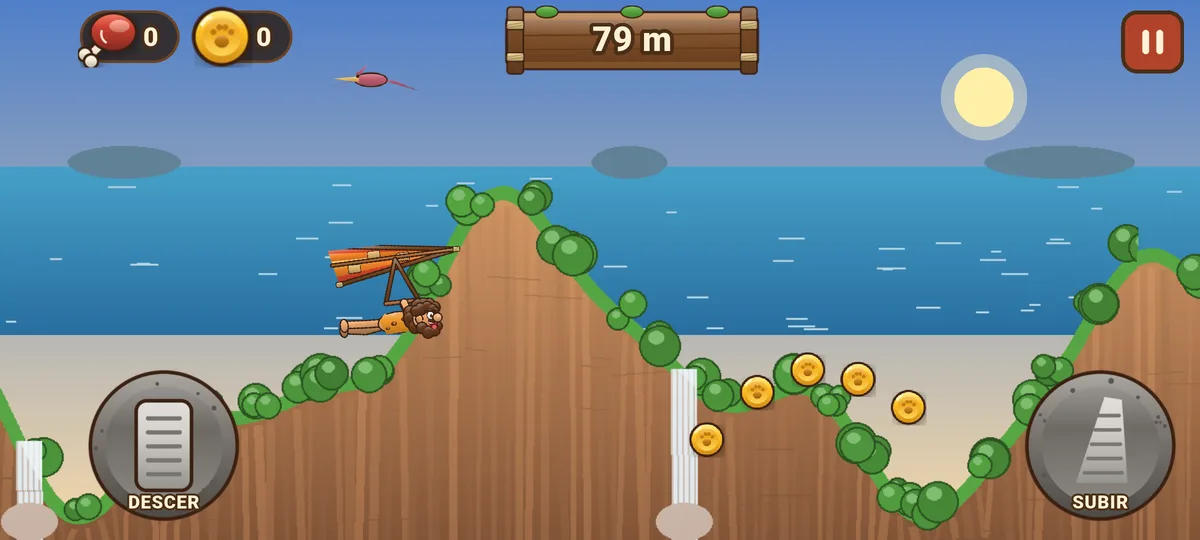
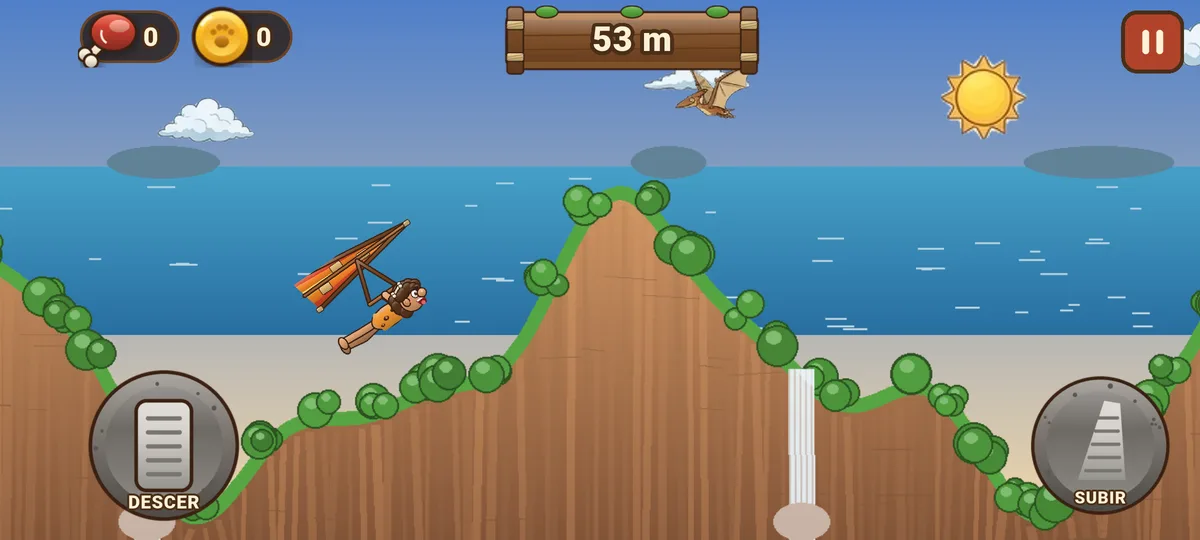
Caverna Race: prints novos com a arte do Gemini

diff --git a/caverna-race/index.html b/caverna-race/index.html
@@ -165,7 +165,7 @@
       </div>
       <div class="feature">
         <p class="label">Carrinhos e personagens</p>
-        <p>Quatro carrinhos — do Tronco-Móvel ao Safira Turbo — e três homens das cavernas para escolher.</p>
+        <p>Seis carrinhos — Tronco-Móvel, Caçamba, Ossos, Esteira, Pedra e Voo-Móvel com asas de pterodáctilo — e três pilotos: Ugo, Kina e Hugo.</p>
       </div>
       <div class="feature">
         <p class="label">Cinco fases</p>
@@ -186,15 +186,15 @@
     <h2>Veja o jogo</h2>
     <div class="prints">
       <figure>
-        <img src="assets/print_menu.webp" width="1200" height="540" loading="lazy" alt="Tela inicial do Caverna Race, com o homem das cavernas e o carrinho de troncos">
+        <img src="assets/print_menu.webp" width="1200" height="540" loading="lazy" alt="Tela inicial do Caverna Race, com o Ugo e o Tronco-Móvel">
         <figcaption>Tela inicial</figcaption>
       </figure>
       <figure>
-        <img src="assets/print_corrida.webp" width="1200" height="540" loading="lazy" alt="Corrida no Vale Verde, com cachoeiras, palmeiras e um vulcão ao fundo">
+        <img src="assets/print_corrida.webp" width="1200" height="540" loading="lazy" alt="Ugo correndo no Tronco-Móvel pelo Vale Verde, com palmeiras, vulcão e pterodáctilo ao fundo">
         <figcaption>Corrida no Vale Verde</figcaption>
       </figure>
       <figure>
-        <img src="assets/print_oficina.webp" width="1200" height="540" loading="lazy" alt="Oficina com as melhorias de motor, pneus e capacidade e os carrinhos">
+        <img src="assets/print_oficina.webp" width="1200" height="540" loading="lazy" alt="Oficina com as melhorias de motor, pneus e capacidade e os seis carrinhos">
         <figcaption>Oficina</figcaption>
       </figure>
       <figure>
@@ -202,8 +202,12 @@
         <figcaption>Voo de asa-delta</figcaption>
       </figure>
       <figure>
-        <img src="assets/print_gelo.webp" width="1200" height="540" loading="lazy" alt="Corrida na Montanha Gelada, com chão de neve escorregadio">
-        <figcaption>Montanha Gelada</figcaption>
+        <img src="assets/print_cacamba.webp" width="1200" height="540" loading="lazy" alt="Kina dirigindo o Caçamba-Móvel no Deserto de Pedra">
+        <figcaption>Kina no Caçamba-Móvel</figcaption>
+      </figure>
+      <figure>
+        <img src="assets/print_gelo.webp" width="1200" height="540" loading="lazy" alt="Hugo na Esteira-Móvel subindo a Montanha Gelada">
+        <figcaption>Esteira-Móvel no gelo</figcaption>
       </figure>
       <figure>
         <img src="assets/print_fases.webp" width="1200" height="540" loading="lazy" alt="Tela de escolha das cinco fases, com recordes e metas">
